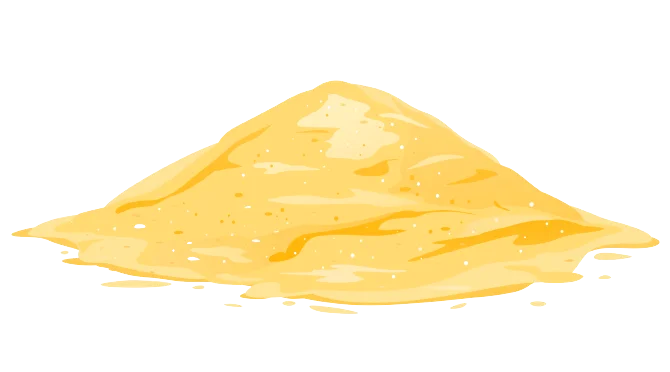
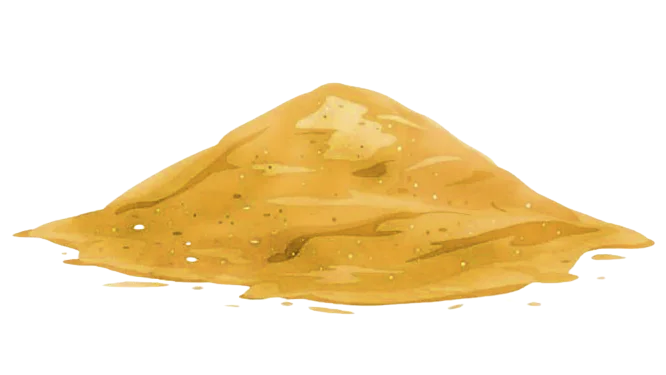
Change images to cartoon versions and add whackMaul function to game

diff --git a/assets/js/whac-app.js b/assets/js/whac-app.js
@@ -1,9 +1,9 @@
-document.addEventListener("DOMContentLoaded", function() {
+document.addEventListener("DOMContentLoaded", () => {
     startButton.addEventListener('click', startGame);
 })
 
 const holes = document.getElementsByClassName('hole');
-const mauls = document.getElementsByClassName('maul');
+const mauls = document.querySelectorAll('.maul');
 const scoreDisplay = document.getElementById('whac-score');
 const timer = document.getElementById('whac-timer');
 const startButton = document.getElementById('whac-start-btn');
@@ -60,11 +60,14 @@ function startGame() {
 }
 
 
-// function whackMaul(e){
-//     score++;
-//     this.style.backgroundImage = 'url()';
-//     setTimeout(() => {
-//         this.style.backgroundImage = 'url()';
-//     }, 800);
-// }
-// mauls.forEach(maul => maul.addEventListener('click', whackMaul))
+function whackMaul(e){
+    score++;
+    this.style.backgroundImage = 'url(../images/maul-cartoon.webp)';
+    this.style.pointerEvents = 'none';
+    setTimeout(() => {
+        this.style.backgroundImage = 'url(../images/maul-cartoon.webp)';
+        this.style.pointerEvents = 'all';
+    }, 800);
+    scoreDisplay.textContent = score;
+}
+mauls.forEach(maul => maul.addEventListener('click', whackMaul));

diff --git a/assets/css/whac-style.css b/assets/css/whac-style.css
@@ -31,7 +31,7 @@ body {
     top: 50%;
     left: 50%;
     transform: translate(-50%, -50%);
-    background-image: url(../images/tatooine-bkg.webp);
+    background-image: url(../images/tatooine.webp);
     overflow: hidden;
 }
 
@@ -92,7 +92,7 @@ body {
 }
 
 .maul {
-    background-image: url(../images/maul.webp);
+    background-image: url(../images/maul-cartoon.webp);
     position: absolute;    
     display: none;
     left: -8px;
@@ -100,11 +100,11 @@ body {
     height: 100%;
     transition: 0.4s;
     background-repeat: no-repeat;
-    background-size: 70%;
+    background-size: 60%;
     background-position: bottom;
 }
 
 .hole.up .maul {
     display: block;
-    top: -12px;
+    top: 5px;
 }
